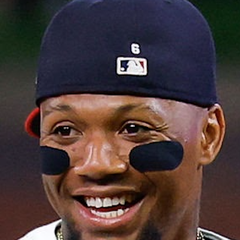
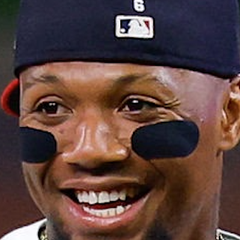
6 ballpark levels (Braves->Yankees), longer+faster, real-audio support, no robot voice, cache-busting, tighter Acuna face

diff --git a/index.html b/index.html
@@ -196,18 +196,27 @@
   // ======================= OPTIONAL REAL IMAGES ===========================
   // Drop files in img/players/<img>.png and img/logos/<abbr>.png to use them.
   // Missing files fall back to the drawn version automatically.
-  function loadImg(src) { const im = new Image(); im.src = src; return im; }
+  const ASSET_VER = "5";  // bump to force phones/browsers to reload images + audio
+  function loadImg(src) { const im = new Image(); im.src = src + "?v=" + ASSET_VER; return im; }
   ROSTER.forEach(c => { c.face = loadImg("img/players/" + c.img + ".png"); });
   TEAMS.forEach(t => { t.logo = loadImg("img/logos/" + t.abbr.toLowerCase() + ".png"); });
   function ready(im) { return im && im.complete && im.naturalWidth > 0; }
 
-  // Levels: 5 stages, day -> night, each with a score target + sky theme
+  // Levels: 6 real ballparks, day -> night, longer & faster each stage.
+  // icons = legends that scroll on the outfield wall (rotating themes per team).
   const LEVELS = [
-    { name: "Spring Training",  target: 150,  sky: ["#bfe3ff", "#eaf7ff"], night: false },
-    { name: "Afternoon Game",   target: 350,  sky: ["#a9d6ff", "#e2f2ff"], night: false },
-    { name: "Golden Hour",      target: 600,  sky: ["#ffcf87", "#ffe7c4"], night: false },
-    { name: "Under the Lights", target: 900,  sky: ["#1c2b4d", "#39588a"], night: true  },
-    { name: "World Series",     target: 1300, sky: ["#0b1430", "#1b2c58"], night: true  },
+    { team: "Braves",   name: "Truist Park",        id: "truist", target: 1200,  sky: ["#8ec5e8", "#e2f2ff"], wall: "#123f2a", trim: "#ce1141", night: false,
+      icons: ["ACUÑA 13", "CHIPPER 10", "MURPHY 3", "MADDUX 31", "SMOLTZ 29"] },
+    { team: "Phillies", name: "Citizens Bank Park", id: "cbp",    target: 2800,  sky: ["#a9d6ff", "#eaf4ff"], wall: "#0b5c3b", trim: "#e81828", night: false,
+      icons: ["HARPER 3", "SCHMIDT 20", "UTLEY 26", "ROLLINS 11", "CARLTON 32"] },
+    { team: "Dodgers",  name: "Dodger Stadium",     id: "dodger", target: 4800,  sky: ["#ffb45b", "#ffe3b0"], wall: "#1a5aa0", trim: "#ffffff", night: false,
+      icons: ["OHTANI 17", "BETTS 50", "KOUFAX 32", "ROBINSON 42", "KERSHAW 22"] },
+    { team: "Rays",     name: "Tropicana Field",    id: "trop",   target: 7200,  sky: ["#12303f", "#1c4a63"], wall: "#0e3a4f", trim: "#8fd400", night: true,
+      icons: ["LONGORIA 3", "KIERMAIER 39", "CRAWFORD 13", "PEÑA 22", "FRANCO 5"] },
+    { team: "Red Sox",  name: "Fenway Park",        id: "fenway", target: 10000, sky: ["#2a3a63", "#5a6ea0"], wall: "#1f7a3d", trim: "#bd3039", night: true,
+      icons: ["ORTIZ 34", "WILLIAMS 9", "YAZ 8", "PEDROIA 15", "MARTINEZ 45"] },
+    { team: "Yankees",  name: "Yankee Stadium",     id: "yankee", target: 13500, sky: ["#0b1430", "#1b2c58"], wall: "#0c2340", trim: "#ffffff", night: true,
+      icons: ["JUDGE 99", "RUTH 3", "JETER 2", "MANTLE 7", "GEHRIG 4"] },
   ];
 
   // ======================= DIFFICULTY =====================================
@@ -251,33 +260,64 @@
     return b;
   }
   const CROWD_BASE = 0.038;
+
+  // ---- Optional REAL audio files: drop clips into audio/ and they play ----
+  // audio/crowd.mp3 (loop), audio/hit.mp3, audio/cheer.mp3, audio/playball.mp3, audio/out.mp3
+  // Missing files fall back to the light synth below (no robotic voice).
+  function makeSfx(file, loop, vol) {
+    const a = new Audio("audio/" + file + "?v=" + ASSET_VER);
+    a.preload = "auto"; a.loop = !!loop; a.volume = vol == null ? 0.7 : vol; a._ok = false;
+    a.addEventListener("canplaythrough", () => { a._ok = true; });
+    a.addEventListener("error", () => { a._ok = false; });
+    return a;
+  }
+  const SFX = {
+    playball: makeSfx("playball.mp3", false, 0.9),
+    crowd:    makeSfx("crowd.mp3",    true,  0.5),
+    hit:      makeSfx("hit.mp3",      false, 0.85),
+    cheer:    makeSfx("cheer.mp3",    false, 0.85),
+    out:      makeSfx("out.mp3",      false, 0.85),
+  };
+  function playFile(a) { if (muted || !a || !a._ok) return false; try { a.currentTime = 0; a.play(); return true; } catch (e) { return false; } }
+  function startBall() { playFile(SFX.playball); }
+  let crowdFile = false;
+
   function startCrowd() {
-    ensureAudio(); if (!audioCtx) return; stopCrowd();
+    ensureAudio();
+    if (SFX.crowd._ok) { crowdFile = true; SFX.crowd.volume = muted ? 0 : 0.5; try { SFX.crowd.currentTime = 0; SFX.crowd.play(); } catch (e) {} return; }
+    if (!audioCtx) return; stopSynthCrowd();
     crowdSrc = audioCtx.createBufferSource(); crowdSrc.buffer = noiseBuffer(2.2); crowdSrc.loop = true;
     const f = audioCtx.createBiquadFilter(); f.type = "lowpass"; f.frequency.value = 720;
     crowdGain = audioCtx.createGain(); crowdGain.gain.value = muted ? 0 : CROWD_BASE;
     crowdSrc.connect(f); f.connect(crowdGain); crowdGain.connect(audioCtx.destination);
     crowdSrc.start();
   }
-  function stopCrowd() { if (crowdSrc) { try { crowdSrc.stop(); } catch (e) {} crowdSrc.disconnect(); crowdSrc = null; } }
+  function stopSynthCrowd() { if (crowdSrc) { try { crowdSrc.stop(); } catch (e) {} crowdSrc.disconnect(); crowdSrc = null; } }
+  function stopCrowd() { if (crowdFile) { try { SFX.crowd.pause(); } catch (e) {} crowdFile = false; } stopSynthCrowd(); }
+
   function cheer() {
-    if (!audioCtx || muted || !crowdGain) return;
+    if (muted) return;
+    if (playFile(SFX.cheer)) return;
+    if (!audioCtx || !crowdGain) return;
     const t = audioCtx.currentTime, g = crowdGain.gain;
     g.cancelScheduledValues(t); g.setValueAtTime(g.value, t);
     g.linearRampToValueAtTime(0.16, t + 0.12); g.linearRampToValueAtTime(CROWD_BASE, t + 1.7);
   }
   function groan() {
-    if (!audioCtx || muted) return;
+    if (muted) return;
+    if (crowdGain && audioCtx) { const t = audioCtx.currentTime, g = crowdGain.gain; g.cancelScheduledValues(t); g.setValueAtTime(g.value, t); g.linearRampToValueAtTime(0.006, t + 0.7); }
+    if (playFile(SFX.out)) return;
+    if (!audioCtx) return;
     const t = audioCtx.currentTime;
-    if (crowdGain) { const g = crowdGain.gain; g.cancelScheduledValues(t); g.setValueAtTime(g.value, t); g.linearRampToValueAtTime(0.006, t + 0.7); }
     const o = audioCtx.createOscillator(), g = audioCtx.createGain();
     o.type = "sawtooth"; o.frequency.setValueAtTime(170, t); o.frequency.exponentialRampToValueAtTime(80, t + 0.6);
     g.gain.setValueAtTime(0.05, t); g.gain.exponentialRampToValueAtTime(0.001, t + 0.6);
     o.connect(g); g.connect(audioCtx.destination); o.start(t); o.stop(t + 0.62);
   }
   function crack() {
-    if (!audioCtx && !muted) ensureAudio();
-    if (!audioCtx || muted) return;
+    if (muted) return;
+    if (playFile(SFX.hit)) return;
+    ensureAudio(); if (!audioCtx) return;
     const t = audioCtx.currentTime;
     const src = audioCtx.createBufferSource(); src.buffer = noiseBuffer(0.05);
     const f = audioCtx.createBiquadFilter(); f.type = "bandpass"; f.frequency.value = 1900; f.Q.value = 0.9;
@@ -287,10 +327,6 @@
     o.type = "triangle"; o.frequency.setValueAtTime(230, t); o.frequency.exponentialRampToValueAtTime(120, t + 0.09);
     og.gain.setValueAtTime(0.28, t); og.gain.exponentialRampToValueAtTime(0.001, t + 0.1);
     o.connect(og); og.connect(audioCtx.destination); o.start(t); o.stop(t + 0.11);
-  }
-  function announce(text) {
-    if (muted || !window.speechSynthesis) return;
-    try { const u = new SpeechSynthesisUtterance(text); u.rate = 1.0; u.pitch = 0.85; u.volume = 0.9; speechSynthesis.cancel(); speechSynthesis.speak(u); } catch (e) {}
   }
 
   // ======================= STATE ==========================================
@@ -320,7 +356,7 @@
   let levelIdx = 0, champShown = false, levelFlash = 0, levelFlashName = "";
   let stars = [];
   function makeStars() { stars = []; for (let i = 0; i < 42; i++) stars.push({ x: Math.random() * W, y: Math.random() * (GROUND_Y - 34), a: 0.3 + Math.random() * 0.6 }); }
-  function effMax() { return cfg.maxSpeed + levelIdx * 1.2; }
+  function effMax() { return cfg.maxSpeed + levelIdx * 1.0; }
   makeStars();
 
   for (let i = 0; i < 4; i++) clouds.push({ x: Math.random() * W, y: 24 + Math.random() * 70, s: 0.3 + Math.random() * 0.4 });
@@ -338,20 +374,18 @@
     if (oppTeams.length === 0) oppTeams = TEAMS;
     levelIdx = 0; champShown = false; levelFlash = 0; makeStars();
     menuEl.classList.add("hidden"); gameoverEl.classList.add("hidden");
-    if (richSound()) { ensureAudio(); startCrowd(); announce("Play ball!"); }
+    if (richSound()) { ensureAudio(); startCrowd(); startBall(); }
     else beep(660, 0.1, "square", 0.05);
   }
 
   function onLevelUp() {
-    levelFlash = 95; levelFlashName = LEVELS[levelIdx].name;
+    levelFlash = 100; levelFlashName = LEVELS[levelIdx].team + " · " + LEVELS[levelIdx].name;
     speed = Math.min(effMax(), speed + 0.6); makeStars();
-    if (richSound()) { cheer(); announce(LEVELS[levelIdx].name); }
-    else beep(900, 0.14, "sine", 0.06);
+    if (richSound()) cheer(); else beep(900, 0.14, "sine", 0.06);
   }
   function onChamp() {
-    levelFlash = 140; levelFlashName = "WORLD SERIES CHAMPS!";
-    if (richSound()) { cheer(); announce("World series champions!"); }
-    else beep(1046, 0.2, "sine", 0.07);
+    levelFlash = 150; levelFlashName = "WORLD SERIES CHAMPS!";
+    if (richSound()) cheer(); else beep(1046, 0.2, "sine", 0.07);
   }
 
   // ======================= SPAWNING =======================================
@@ -383,7 +417,7 @@
   }
 
   window.addEventListener("keydown", (e) => {
-    if (e.code === "KeyM") { muted = !muted; if (crowdGain) crowdGain.gain.value = muted ? 0 : CROWD_BASE; if (muted && window.speechSynthesis) speechSynthesis.cancel(); return; }
+    if (e.code === "KeyM") { muted = !muted; if (crowdGain) crowdGain.gain.value = muted ? 0 : CROWD_BASE; if (crowdFile) SFX.crowd.volume = muted ? 0 : 0.5; return; }
     if (state === S.MENU) {
       if (e.code === "ArrowLeft") { changeChar(-1); }
       else if (e.code === "ArrowRight") { changeChar(1); }
@@ -521,7 +555,7 @@
     if (useImg(ch.face)) {
       // real face, zoomed in and circle-clipped for a big-head look
       g.save(); g.beginPath(); g.arc(0, 0, R, 0, Math.PI * 2); g.clip();
-      const s = R * 2.35; g.drawImage(ch.face, -s / 2, -s * 0.56, s, s); g.restore();
+      const s = R * 2.15; g.drawImage(ch.face, -s / 2, -s / 2, s, s); g.restore();
       g.lineWidth = 1.5; g.strokeStyle = "rgba(0,0,0,0.22)"; g.beginPath(); g.arc(0, 0, R, 0, Math.PI * 2); g.stroke();
     } else {
       // clean cartoon face, scaled up
@@ -576,6 +610,85 @@
       }
     }
   }
+
+  // ---- Ballpark backdrop (stands + landmark + outfield wall + legends) ----
+  function hexToRgb(h) { h = h.replace("#", ""); if (h.length === 3) h = h.split("").map(c => c + c).join(""); const n = parseInt(h, 16); return { r: (n >> 16) & 255, g: (n >> 8) & 255, b: n & 255 }; }
+  function shade(hex, f) { const c = hexToRgb(hex); return "rgb(" + Math.round(c.r * f) + "," + Math.round(c.g * f) + "," + Math.round(c.b * f) + ")"; }
+  function tri(x, baseY, w, h) { ctx.beginPath(); ctx.moveTo(x, baseY); ctx.lineTo(x + w / 2, baseY - h); ctx.lineTo(x + w, baseY); ctx.closePath(); ctx.fill(); }
+
+  function drawPark() {
+    const L = LEVELS[levelIdx];
+    // grandstand band
+    ctx.fillStyle = shade(L.wall, L.night ? 0.55 : 0.85);
+    ctx.fillRect(0, 96, W, 60);
+    // distant crowd speckle (static pattern, no flicker)
+    ctx.fillStyle = L.night ? "rgba(255,255,255,0.10)" : "rgba(255,255,255,0.16)";
+    for (let i = 6; i < W; i += 9) { const yy = 102 + ((i * 7) % 44); ctx.fillRect(i, yy, 3, 3); }
+    drawLandmark(L);
+    // outfield wall
+    ctx.fillStyle = L.wall; ctx.fillRect(0, 150, W, GROUND_Y - 150);
+    ctx.fillStyle = L.trim; ctx.fillRect(0, 150, W, 4);
+    ctx.fillStyle = "#f6c000"; ctx.fillRect(0, 154, W, 2); // home-run yellow line
+    // scrolling legend placards along the wall (rotating "iconic players")
+    const sp = 300, off = groundOffset % sp, base = Math.floor(groundOffset / sp);
+    for (let k = -1; k <= Math.ceil(W / sp) + 1; k++) {
+      const x = k * sp - off + 60;
+      const idx = ((base + k) % L.icons.length + L.icons.length) % L.icons.length;
+      ctx.fillStyle = "rgba(255,255,255,0.92)"; roundRect(ctx, x - 48, 162, 96, 24, 4); ctx.fill();
+      ctx.fillStyle = L.trim; ctx.fillRect(x - 48, 162, 96, 3);
+      ctx.fillStyle = shade(L.wall, 0.9); ctx.font = "bold 12px Arial"; ctx.textAlign = "center"; ctx.textBaseline = "middle";
+      ctx.fillText(L.icons[idx], x, 175);
+    }
+  }
+
+  function drawLandmark(L) {
+    const c = ctx;
+    switch (L.id) {
+      case "truist": // Georgia pines + scoreboard
+        c.fillStyle = "#1f5e3a";
+        for (let x = -10; x < W; x += 52) tri(x, 100, 24, 42);
+        c.fillStyle = "#0a0a0a"; roundRect(c, W * 0.60, 58, 168, 40, 4); c.fill();
+        c.fillStyle = "#123f2a"; c.fillRect(W * 0.60 + 6, 64, 156, 28);
+        c.fillStyle = "#ffcf33"; c.font = "bold 12px Arial"; c.textAlign = "center"; c.textBaseline = "middle";
+        c.fillText("BRAVES 4   GUESTS 1", W * 0.60 + 84, 78);
+        break;
+      case "cbp": { // Liberty Bell
+        const bx = W * 0.74, by = 60;
+        c.fillStyle = "#ffd23f";
+        c.beginPath(); c.moveTo(bx - 26, by); c.quadraticCurveTo(bx - 30, by + 34, bx - 20, by + 40);
+        c.lineTo(bx + 20, by + 40); c.quadraticCurveTo(bx + 30, by + 34, bx + 26, by); c.closePath(); c.fill();
+        c.fillStyle = "#b8860b"; c.fillRect(bx - 30, by - 6, 60, 8);
+        c.fillStyle = "#8b5a00"; c.fillRect(bx - 5, by + 40, 10, 8);
+        break;
+      }
+      case "dodger": // mountains + zigzag pavilion + palms
+        c.fillStyle = "#8f83b5";
+        c.beginPath(); c.moveTo(0, 96); c.lineTo(140, 52); c.lineTo(300, 90); c.lineTo(480, 54); c.lineTo(680, 92); c.lineTo(860, 60); c.lineTo(W, 96); c.closePath(); c.fill();
+        c.strokeStyle = "#efe7c8"; c.lineWidth = 4; c.beginPath();
+        for (let x = 0; x <= W; x += 44) { c.lineTo(x, 96); c.lineTo(x + 22, 86); } c.stroke();
+        for (const px of [70, W - 84]) { c.fillStyle = "#3a2a12"; c.fillRect(px - 2, 70, 4, 28); c.fillStyle = "#2e8b57"; for (let a = -2; a <= 2; a++) { c.save(); c.translate(px, 70); c.rotate(a * 0.5); c.fillRect(0, -2, 16, 4); c.restore(); } }
+        break;
+      case "trop": // dome + catwalks
+        c.strokeStyle = "rgba(255,255,255,0.16)"; c.lineWidth = 3;
+        c.beginPath(); c.ellipse(W / 2, 150, W * 0.6, 120, 0, Math.PI, 0); c.stroke();
+        c.lineWidth = 2;
+        for (let i = 1; i < 6; i++) { c.beginPath(); c.moveTo((W / 6) * i, 96); c.lineTo(W / 2, 44); c.stroke(); }
+        break;
+      case "fenway": { // Green Monster + CITGO
+        c.fillStyle = "#1f7a3d"; c.fillRect(0, 66, 148, GROUND_Y - 66);
+        c.fillStyle = "#0f5a2a"; c.fillRect(0, 66, 148, 4);
+        c.fillStyle = "#0a0a0a"; for (let i = 0; i < 5; i++) c.fillRect(12 + i * 27, 118, 20, 26);
+        c.fillStyle = "#e03a3a"; roundRect(c, W - 122, 52, 62, 30, 6); c.fill();
+        c.fillStyle = "#fff"; c.font = "bold 12px Arial"; c.textAlign = "center"; c.textBaseline = "middle"; c.fillText("CITGO", W - 91, 67);
+        break;
+      }
+      case "yankee": // white facade frieze
+        c.fillStyle = "#f4f4f0"; c.beginPath();
+        for (let x = 0; x <= W; x += 26) { c.lineTo(x, 94); c.lineTo(x + 13, 82); }
+        c.lineTo(W, 94); c.lineTo(W, 100); c.lineTo(0, 100); c.closePath(); c.fill();
+        break;
+    }
+  }
   function drawHUD() {
     const night = LEVELS[levelIdx].night;
     const ink = night ? "rgba(255,255,255,0.95)" : "#1b2a42";
@@ -587,7 +700,7 @@
     ctx.fillText("HI " + String(Math.floor(high)).padStart(5, "0"), W - 16, 34);
     ctx.textAlign = "left"; ctx.fillStyle = inkDim; ctx.font = "bold 12px Arial";
     ctx.fillText(ROSTER[charIndex].name + "  ·  " + diffKey.toUpperCase() + "  ·  V" + version, 16, 16);
-    ctx.fillText("LVL " + (levelIdx + 1) + "/5 · " + LEVELS[levelIdx].name, 16, 32);
+    ctx.fillText("LVL " + (levelIdx + 1) + "/" + LEVELS.length + " · " + LEVELS[levelIdx].name + " (" + LEVELS[levelIdx].team + ")", 16, 32);
     if (muted) ctx.fillText("🔇", 16, 48);
   }
 
@@ -648,6 +761,7 @@
 
     drawSky();
     if (!LEVELS[levelIdx].night) drawClouds();
+    drawPark();
     drawGround(groundOffset);
     for (const o of obstacles) {
       let cy = o.cy;
